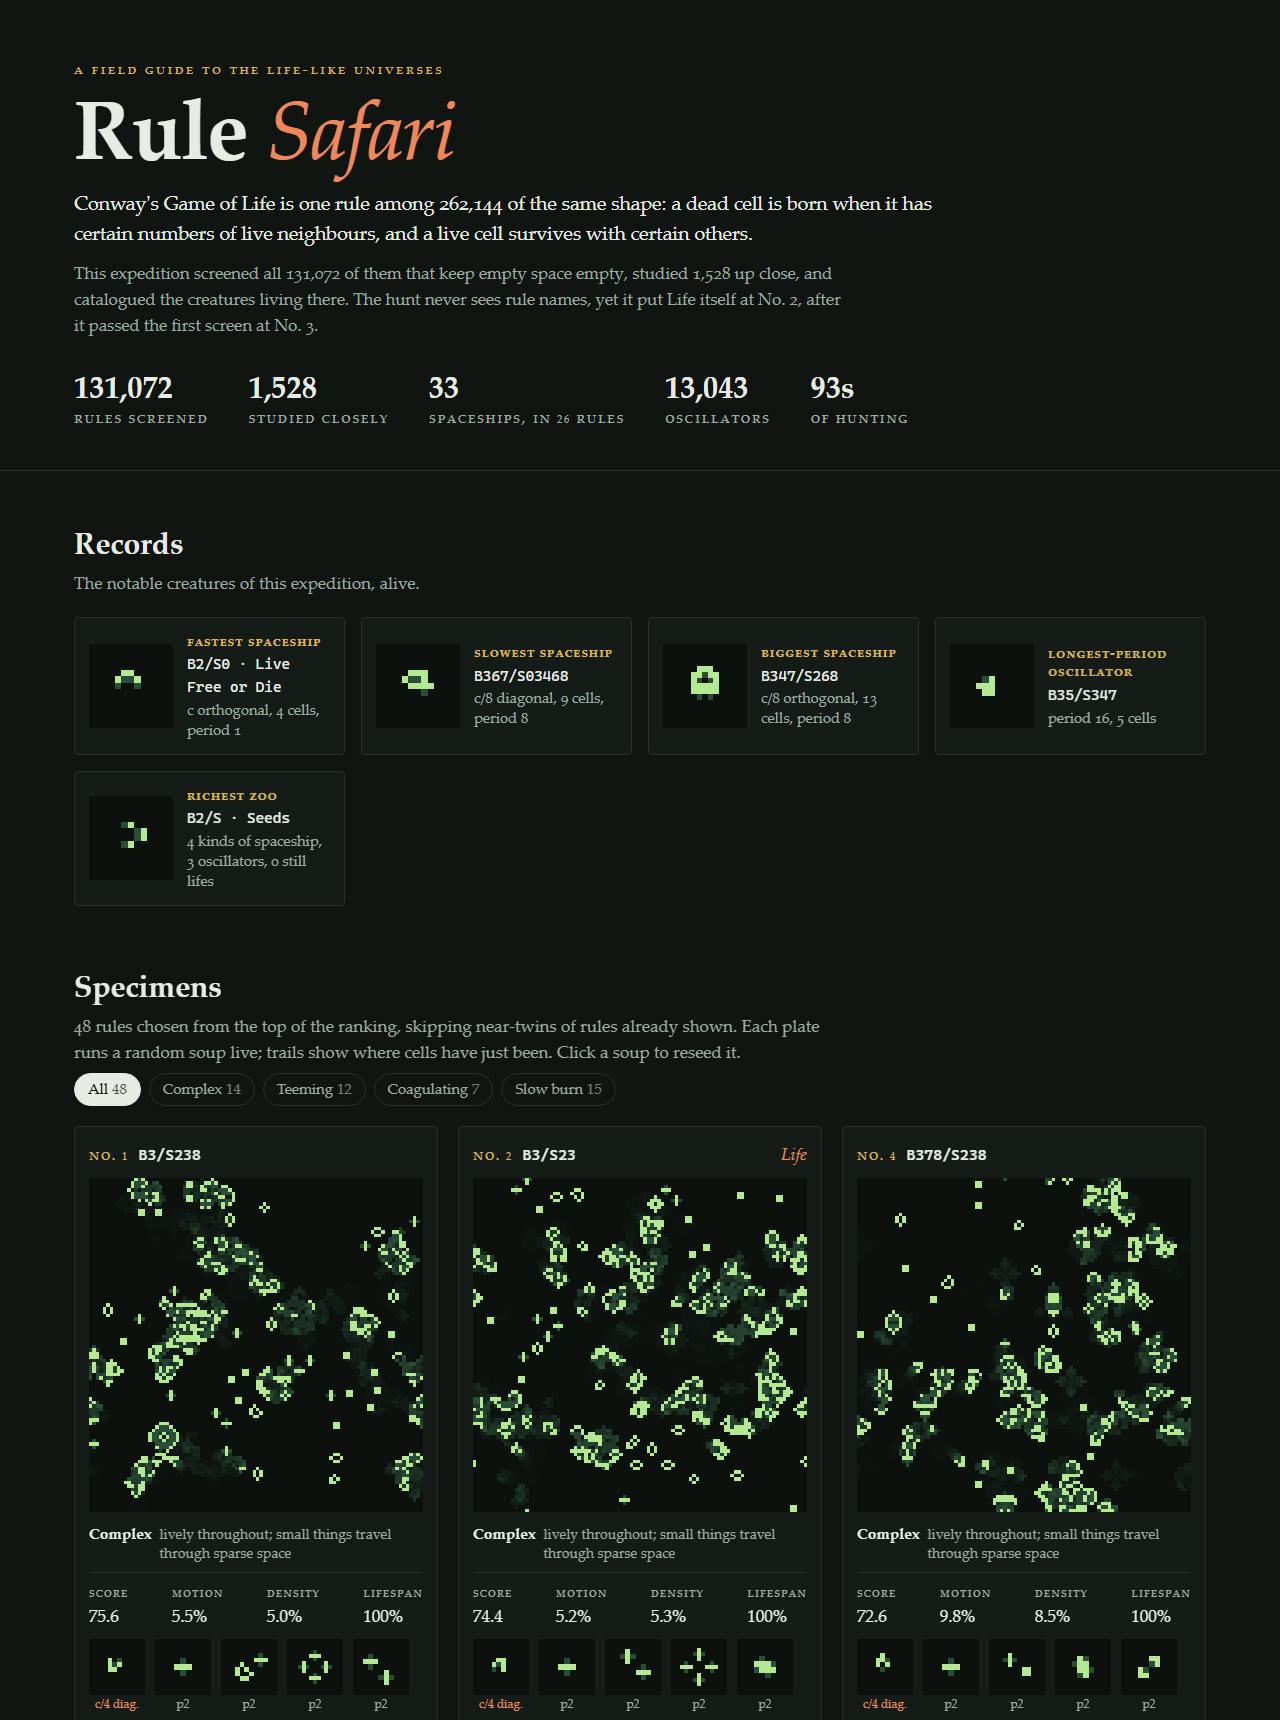
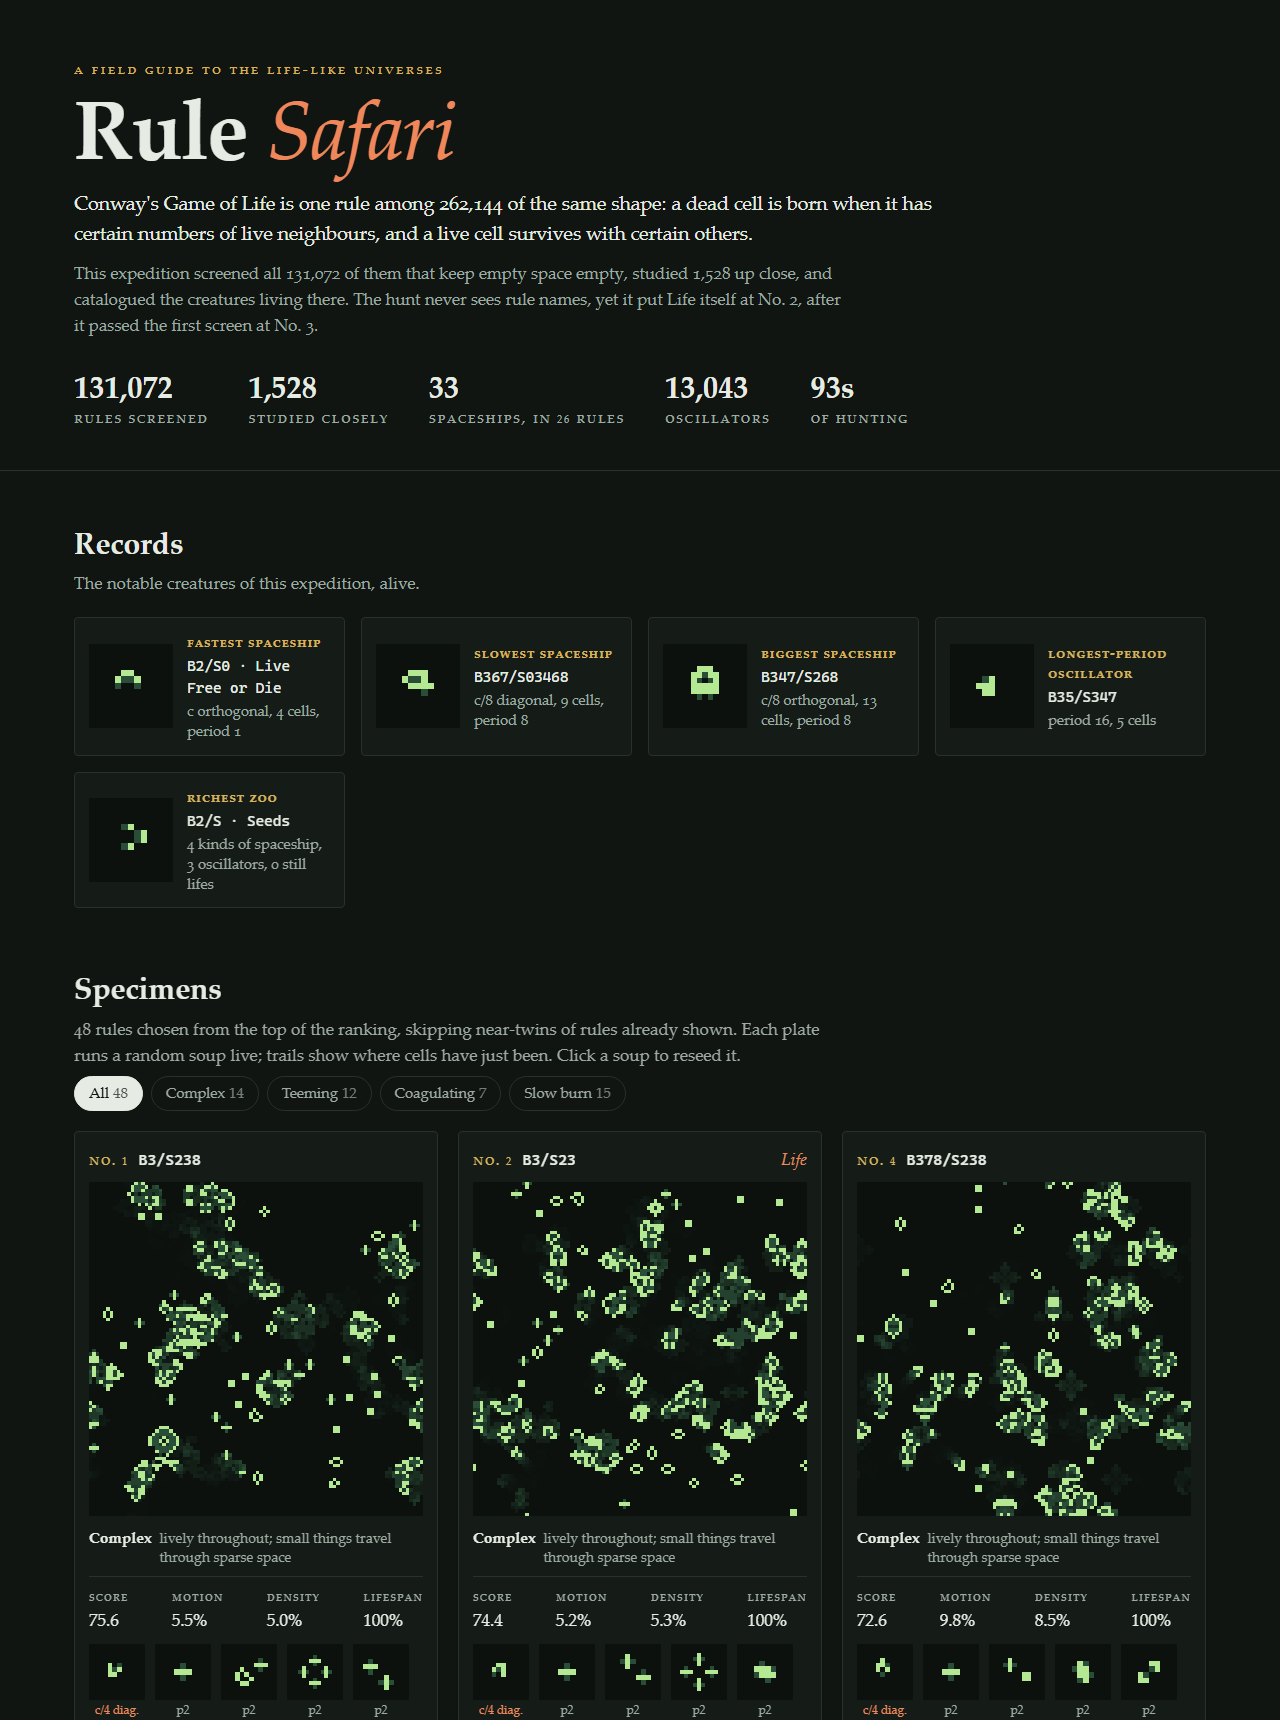
Give filter chips and wrapped labels room to breathe
Chips get 6px of vertical padding, wrapping record titles and creature
captions get 1.3+ line height, and an unused small-caps class is gone.
Screenshots retaken. Local design-hook state is ignored.

diff --git a/assets/gallery.html b/assets/gallery.html
@@ -50,7 +50,6 @@
   a:hover { text-decoration-color: var(--accent); }
   .wrap { max-width: 1180px; margin: 0 auto; padding: 0 24px; }
   .mono { font-family: var(--mono); font-size: 0.86em; font-variant-numeric: normal; }
-  .smallcaps { font-variant: all-small-caps; letter-spacing: 0.08em; }
 
   /* Masthead */
   .masthead { padding: 56px 0 40px; border-bottom: 1px solid var(--line); }
@@ -74,13 +73,13 @@
   .records { display: grid; grid-template-columns: repeat(auto-fill, minmax(250px, 1fr)); gap: 16px; }
   .record { display: grid; grid-template-columns: 84px 1fr; gap: 14px; align-items: center; background: var(--card); border: 1px solid var(--line); border-radius: 4px; padding: 14px; }
   .record canvas { width: 84px; height: 84px; }
-  .record h3 { margin: 0; font-size: 0.92rem; font-variant: all-small-caps; letter-spacing: 0.05em; color: var(--ochre); font-weight: 600; line-height: 1.25; }
+  .record h3 { margin: 0; font-size: 0.92rem; font-variant: all-small-caps; letter-spacing: 0.05em; color: var(--ochre); font-weight: 600; line-height: 1.35; }
   .record p { margin: 2px 0 0; line-height: 1.35; }
   .record .detail { color: var(--ink-2); font-size: 0.92rem; }
 
   /* Filters */
   .filters { display: flex; flex-wrap: wrap; gap: 8px; }
-  .chip { font: inherit; font-size: 0.92rem; color: var(--ink-2); background: transparent; border: 1px solid var(--line); border-radius: 999px; padding: 4px 13px; cursor: pointer; }
+  .chip { font: inherit; font-size: 0.92rem; line-height: 1.4; color: var(--ink-2); background: transparent; border: 1px solid var(--line); border-radius: 999px; padding: 6px 14px; cursor: pointer; }
   .chip:hover { color: var(--ink); border-color: var(--ink-2); }
   .chip[aria-pressed="true"] { color: var(--paper); background: var(--ink); border-color: var(--ink); }
   .chip:focus-visible, canvas:focus-visible { outline: 2px solid var(--accent); outline-offset: 2px; }
@@ -106,7 +105,7 @@
   .zoo { display: flex; flex-wrap: wrap; gap: 10px; margin: 0; padding: 0; list-style: none; }
   .zoo li { display: flex; flex-direction: column; align-items: center; gap: 3px; width: 56px; }
   .zoo canvas { width: 56px; height: 56px; background: var(--well); border-radius: 2px; }
-  .zoo small { font-size: 0.74rem; color: var(--ink-2); line-height: 1.15; text-align: center; font-variant-numeric: lining-nums; }
+  .zoo small { font-size: 0.74rem; color: var(--ink-2); line-height: 1.3; text-align: center; font-variant-numeric: lining-nums; }
   .zoo .ship small { color: var(--accent); }
   .zoo-empty { color: var(--ink-2); font-size: 0.9rem; font-style: italic; margin: 0; }
   .relatives { margin: 0; color: var(--ink-2); font-size: 0.84rem; line-height: 1.4; }
